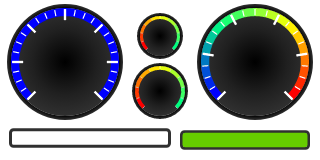
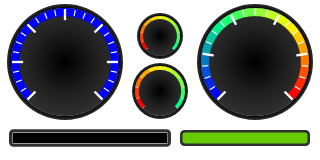
misc

Changed region(s): [[0.0312, 0.7812, 0.5312, 0.9375], [0.5625, 0.875, 0.9688, 0.9375], [0.5625, 0.8125, 0.9688, 0.8438]]

diff --git a/Gauges/resources/template.js b/Gauges/resources/template.js
@@ -1214,6 +1214,19 @@ function horizontalBar(ctx, arr) {
     const bezel = 2;
 
     ctx.fillStyle = arr.backColor
+    console.log("backColor", arr.backColor, typeof arr.backColor)
+    let transP
+    if (arr.backColor == "transparent" || typeof arr.backColor == "undefined") {
+	transP = "true"
+    } else {
+	transP = "false"
+    }
+    rgbI = parseInt(ctx.fillStyle.slice(1), 16)
+    r = (rgbI >> 16) & 255;
+    g = (rgbI >> 8) & 255;
+    b = rgbI & 255;
+    arrR.backColor = {t:transP, r:r, g:g, b:b}
+
     ctx.fillRect(arr.x0 - arrR.barW/2, arr.y0 - arrR.barH/2, arrR.barW, arrR.barH)
 
     ctx.fillStyle = "#303030";
